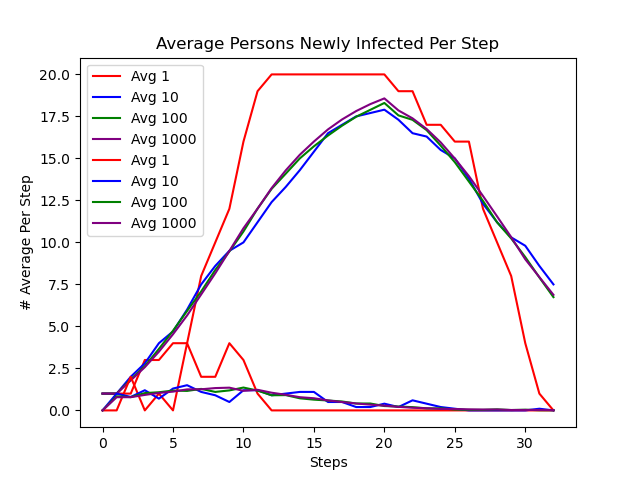
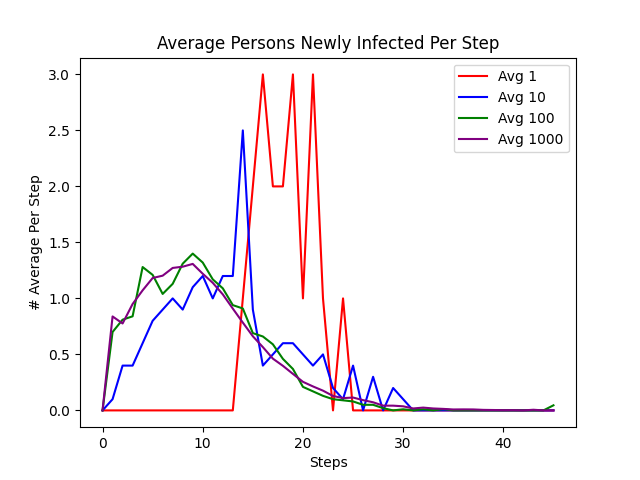
Included Social distancing parameter

diff --git a/main.py b/main.py
@@ -4,32 +4,35 @@ import pandas as pd
 import numpy as np
 import matplotlib.pyplot as plt
 
+#Global Variables Affecting Simulation
 boardSIZE = 10
-infectionRadius = 1
-steps = 20
-deathchance = 10
-recoverychance = 90
-SocDist = 5
-numOfPeople = 20
-grid=[]
-people=[]
-numInfected = 1
-numImmune = 0
-numDead = 0
-numDeadatStep = 0
-numRecoveredatStep = 0
+infectionRadius = 1     #Radius of potential infection
+steps = 20              #Steps until death or recovery chance
+deathchance = 10        #Percent chance of death
+recoverychance = 90     #Percent chance of recovery
+SocDist = 2             #Allowed amount of steps for social distancing
+numOfPeople = 20        #Population of people on grid
+grid=[]                 #List to make grid matrix
+people=[]               #List to hold person objects
+numInfected = 1         #Counter for number of infected people
+numImmune = 0           #Counter for number of immune people
+numDead = 0             #Counter for number of total dead 
+numDeadatStep = 0       #Counter for number of dead per step of simulation
+numRecoveredatStep = 0  #Counter for number of recovered per step of simulation
 
 class Person(object):
     def __init__(self,x_,y_,id_,infected_):
-        self.startx = x_    #Starting X Coordinate for social distancing
-        self.starty = y_    #Starting Y Coordinate for social distancing
-        self.x=x_
-        self.y=y_
-        self.id=id_
-        self.infected=infected_
-        self.immune=False
-        self.timeSinceInfection=0
-        self.dead=False
+        self.startx = x_            #Starting X Coordinate for social distancing
+        self.starty = y_            #Starting Y Coordinate for social distancing
+        self.dY = 0                 #Distance from Starting Y
+        self.dX = 0                 #Distance from Starting X
+        self.x=x_                   #Current X position on grid
+        self.y=y_                   #Current Y position on grid
+        self.id=id_                 #ID of person
+        self.infected=infected_     #Infected flag
+        self.immune=False           #Immunity flag
+        self.timeSinceInfection=0   #Time elapsed since infected
+        self.dead=False             #Death flag
         self.resilience = random.randrange(100) #Used to determine potential chance of infection
     def __str__(self):
         if self.infected == True:
@@ -54,7 +57,7 @@ class Person(object):
 
         Social Distancing measure can work for both healthy and infected 
         """
-        if ((x+self.startx > SocDist) or (y+self.starty > SocDist)):
+        if ((x+self.dX > SocDist) or (y+self.dY > SocDist)):
             return False
         else:
             return True
@@ -77,27 +80,31 @@ class Person(object):
         random.shuffle(dirs) #Movement directions randomized for random movement
         for i in dirs:
             if i == 0:
-                if (self.y-1 > 0) and (grid_[self.x][self.y-1] == 0):
+                if (self.y-1 > 0) and (grid_[self.x][self.y-1] == 0) and (self.chkSocDist(0,-1)):
                     grid_[self.x][self.y] = 0   #Current square of person set to 0 after once they've moved
                     self.y -= 1
+                    self.dY -= 1                #Updating distance from starting Y
                     grid_[self.x][self.y] = self #Updating grid to contain person
                     break
             elif i == 1:
-                if (self.y+1 < boardSIZE-1) and (grid_[self.x][self.y+1] == 0):
+                if (self.y+1 < boardSIZE-1) and (grid_[self.x][self.y+1] == 0) and (self.chkSocDist(0,1)):
                     grid_[self.x][self.y] = 0 #Current square of person set to 0 after once they've moved
                     self.y += 1
+                    self.dY += 1                #Updating distance from starting Y
                     grid_[self.x][self.y] = self #Updating grid to contain person
                     break
             elif i == 2:
-                if  (self.x-1 > 0) and (grid_[self.x-1][self.y] == 0):
+                if  (self.x-1 > 0) and (grid_[self.x-1][self.y] == 0) and (self.chkSocDist(-1,0)):
                     grid_[self.x][self.y] = 0 #Current square of person set to 0 after once they've moved
                     self.x -= 1
+                    self.dX -= 1                #Updating distance from starting X
                     grid_[self.x][self.y] = self #Updating grid to contain person
                     break
             elif i == 3:
-                if (self.x+1 < boardSIZE-1) and (grid_[self.x+1][self.y] == 0):
+                if (self.x+1 < boardSIZE-1) and (grid_[self.x+1][self.y] == 0) and (self.chkSocDist(1,0)):
                     grid_[self.x][self.y] = 0 #Current square of person set to 0 after once they've moved
                     self.x += 1
+                    self.dX += 1                #Updating distance from starting X
                     grid_[self.x][self.y] = self #Updating grid to contain person
                     break
             #put code for checking virus either here or down below after all people have moved.
@@ -493,7 +500,7 @@ partBAlreadyInfected.plot(kind='line',y='Avg 100',color = 'green',ax=ax)
 partBAlreadyInfected.plot(kind='line',y='Avg 1000',color = 'purple',ax=ax)
 plt.savefig('partBAlreadyInfected.png', transparent=True)
 
-#plt.show()
+plt.show()
 
 ax = plt.gca()
 plt.title('Average Persons Newly Infected Per Step')
@@ -504,7 +511,7 @@ partBGotInfected.plot(kind ='line',y='Avg 10',color = 'blue',ax = ax)
 partBGotInfected.plot(kind='line',y='Avg 100', color='green',ax = ax)
 partBGotInfected.plot(kind='line',y='Avg 1000',color = 'purple',ax = ax)
 plt.savefig('partBGotInfected.png', transparent=True)
-#plt.show()
+plt.show()
 
 ax = plt.gca()
 plt.title('Average Persons Already Immune Per Step')
@@ -515,7 +522,7 @@ partBAvgRecovered.plot(kind ='line',y='Avg 10',color = 'blue',ax = ax)
 partBAvgRecovered.plot(kind='line',y='Avg 100', color='green',ax = ax)
 partBAvgRecovered.plot(kind='line',y='Avg 1000',color = 'purple',ax = ax)
 plt.savefig('partBAvgRecovered.png', transparent=True)
-#plt.show()
+plt.show()
 
 ax = plt.gca()
 print(partBAvgRecovered)
@@ -527,7 +534,7 @@ partBAvgRecoveredStep.plot(kind='line',y='Avg 10',color = 'blue',ax=ax)
 partBAvgRecoveredStep.plot(kind='line',y='Avg 100',color = 'green',ax=ax)
 partBAvgRecoveredStep.plot(kind='line',y='Avg 1000',color = 'purple',ax=ax)
 plt.savefig('partBAvgRecoveredStep.png', transparent=True)
-#plt.show()
+plt.show()
 
 ax = plt.gca()
 plt.title('Average Persons Already Dead Per Step')
@@ -538,7 +545,7 @@ partBAvgDied.plot(kind ='line',y='Avg 10',color = 'blue',ax = ax)
 partBAvgDied.plot(kind='line',y='Avg 100', color='green',ax = ax)
 partBAvgDied.plot(kind='line',y='Avg 1000',color = 'purple',ax = ax)
 plt.savefig('partBAvgDied.png', transparent=True)
-#plt.show()
+plt.show()
 
 ax = plt.gca()
 plt.title('Average Persons Died Per Step')
@@ -549,7 +556,7 @@ partBAvgDeadStep.plot(kind='line',y='Avg 10',color = 'blue',ax=ax)
 partBAvgDeadStep.plot(kind='line',y='Avg 100',color = 'green',ax=ax)
 partBAvgDeadStep.plot(kind='line',y='Avg 1000',color = 'purple',ax=ax)
 plt.savefig('partBAvgDeadStep.png', transparent=True)
-#plt.show()
+plt.show()
 
 
 #--------------------------PART C ----------------------------
@@ -664,7 +671,7 @@ partCAlreadyInfected.plot(kind='line',y='Avg 100',color = 'green',ax=ax)
 partCAlreadyInfected.plot(kind='line',y='Avg 1000',color = 'purple',ax=ax)
 plt.savefig('partCAlreadyInfected.png', transparent=True)
 
-#plt.show()
+plt.show()
 
 ax = plt.gca()
 plt.title('Average Persons Newly Infected Per Step')
@@ -675,7 +682,7 @@ partCGotInfected.plot(kind ='line',y='Avg 10',color = 'blue',ax = ax)
 partCGotInfected.plot(kind='line',y='Avg 100', color='green',ax = ax)
 partCGotInfected.plot(kind='line',y='Avg 1000',color = 'purple',ax = ax)
 plt.savefig('partCGotInfected.png', transparent=True)
-#plt.show()
+plt.show()
 
 ax = plt.gca()
 plt.title('Average Persons Already Immune Per Step')
@@ -686,7 +693,7 @@ partCAvgRecovered.plot(kind ='line',y='Avg 10',color = 'blue',ax = ax)
 partCAvgRecovered.plot(kind='line',y='Avg 100', color='green',ax = ax)
 partCAvgRecovered.plot(kind='line',y='Avg 1000',color = 'purple',ax = ax)
 plt.savefig('partCAvgRecovered.png', transparent=True)
-##plt.show()
+plt.show()
 
 ax = plt.gca()
 print(partCAvgRecovered)
@@ -698,7 +705,7 @@ partCAvgRecoveredStep.plot(kind='line',y='Avg 10',color = 'blue',ax=ax)
 partCAvgRecoveredStep.plot(kind='line',y='Avg 100',color = 'green',ax=ax)
 partCAvgRecoveredStep.plot(kind='line',y='Avg 1000',color = 'purple',ax=ax)
 plt.savefig('partCAvgRecoveredStep.png', transparent=True)
-##plt.show()
+plt.show()
 
 ax = plt.gca()
 plt.title('Average Persons Already Dead Per Step')
@@ -709,7 +716,7 @@ partCAvgDied.plot(kind ='line',y='Avg 10',color = 'blue',ax = ax)
 partCAvgDied.plot(kind='line',y='Avg 100', color='green',ax = ax)
 partCAvgDied.plot(kind='line',y='Avg 1000',color = 'purple',ax = ax)
 plt.savefig('partCAvgDied.png', transparent=True)
-##plt.show()
+plt.show()
 
 ax = plt.gca()
 plt.title('Average Persons Died Per Step')
@@ -720,4 +727,4 @@ partCAvgDeadStep.plot(kind='line',y='Avg 10',color = 'blue',ax=ax)
 partCAvgDeadStep.plot(kind='line',y='Avg 100',color = 'green',ax=ax)
 partCAvgDeadStep.plot(kind='line',y='Avg 1000',color = 'purple',ax=ax)
 plt.savefig('partCAvgDeadStep.png', transparent=True)
-##plt.show()
+plt.show()
